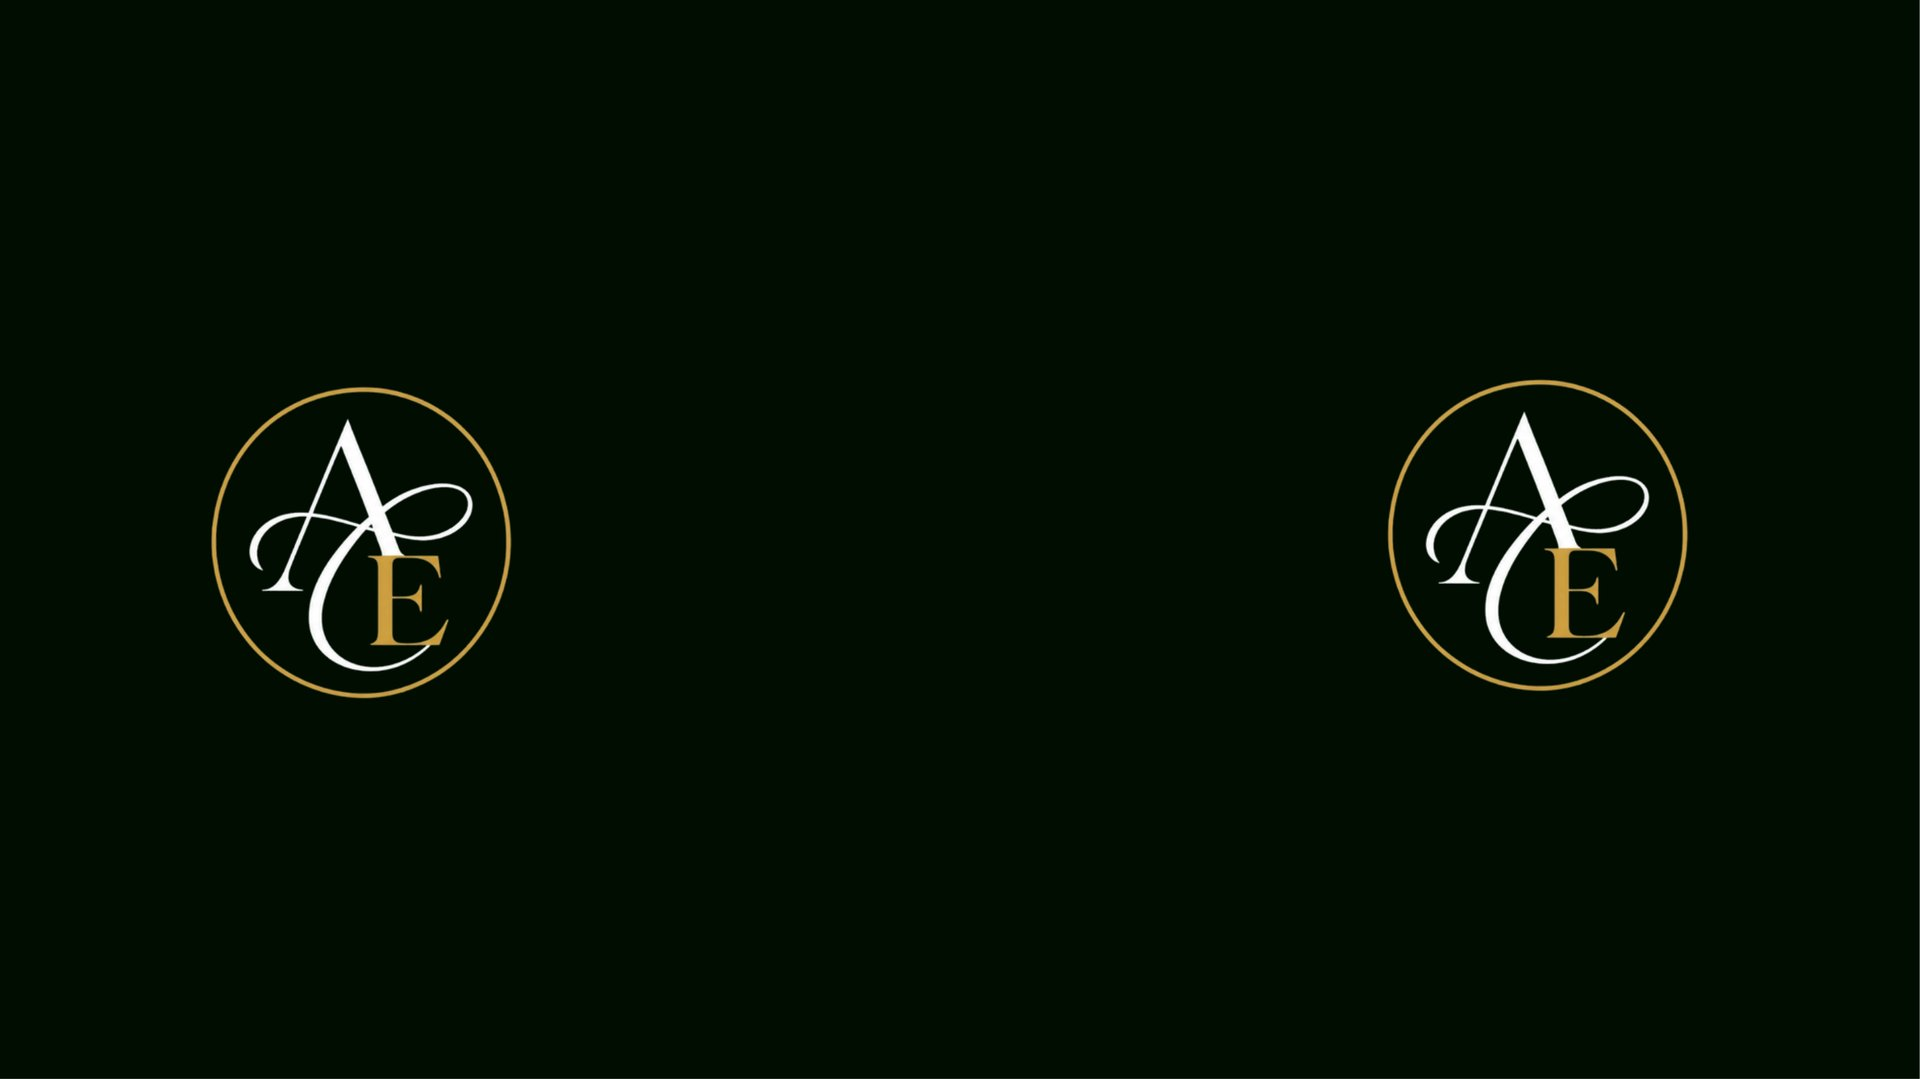
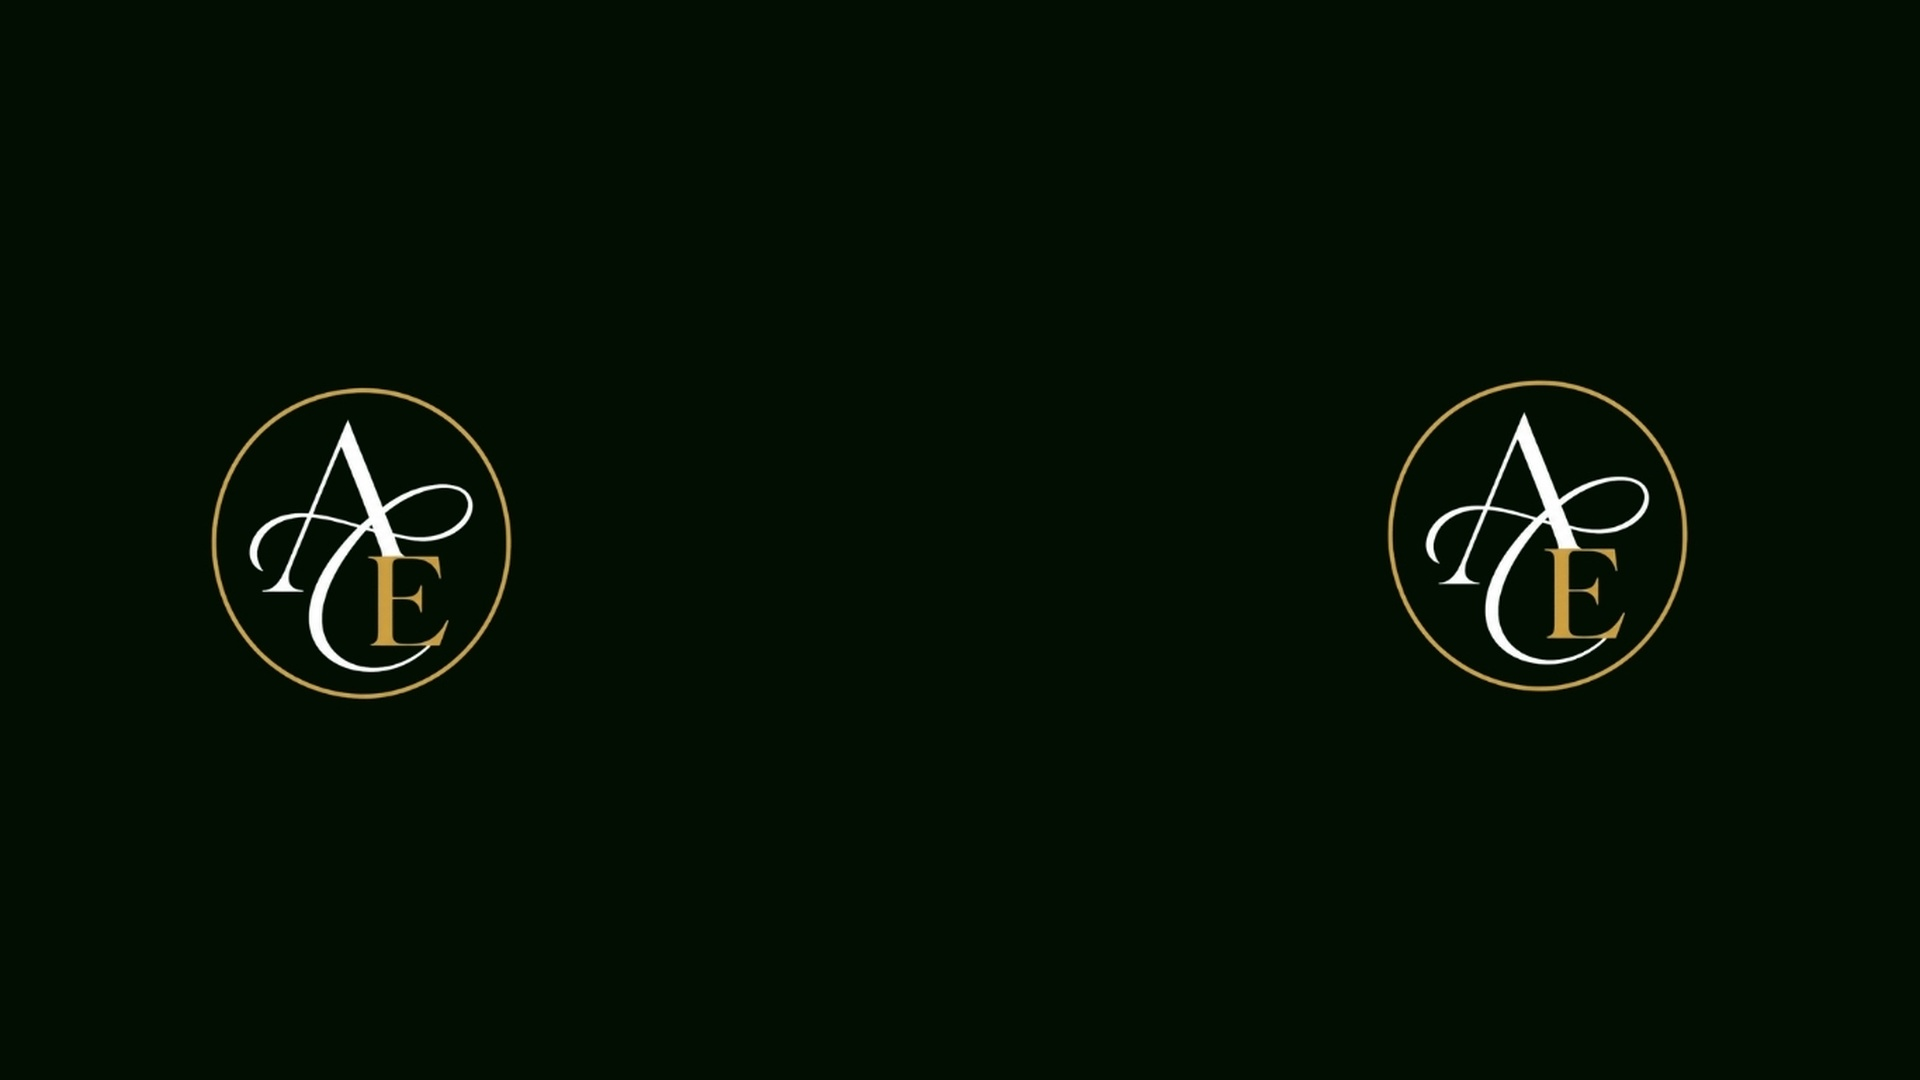
fix: trocar imagem de fundo da home e corrigir sistema de heroImageUrl
- Substitui hero-banner.jpg pela nova imagem (fundo escuro com logos dourados ACE)
- Adiciona prop imageUrl no HeroBackground para usar heroImageUrl do admin como fallback
- Corrige page.tsx e ThemedHomePage.tsx para passar heroImageUrl ao HeroBackground
- Adiciona campo de upload de imagem de fundo na aba Site & IA das configurações
- Agora a ordem de prioridade é: videoUrl (tipo=image) > heroImageUrl (admin) > hero-banner.jpg (local)
- Resolve falha onde alterações de imagem no painel admin não eram aplicadas na home

Changed region(s): [[0.7812, 0.6117, 0.8438, 0.6423], [0.1875, 0.4893, 0.2188, 0.5199], [0.125, 0.367, 0.1562, 0.3976]]

diff --git a/apps/web/src/app/(dashboard)/dashboard/settings/page.tsx b/apps/web/src/app/(dashboard)/dashboard/settings/page.tsx
@@ -288,6 +288,7 @@ export default function SettingsPage() {
   // ── Site Settings ──────────────────────────────────────────────────────────
   const [videoType, setVideoType] = useState<'youtube' | 'upload'>('youtube')
   const [videoUrl, setVideoUrl] = useState('')
+  const [heroImageUrl, setHeroImageUrl] = useState('')
   const [siteSaved, setSiteSaved] = useState(false)
   const [siteSettings, setSiteSettings] = useState({
     whatsapp: '',
@@ -319,6 +320,7 @@ export default function SettingsPage() {
     if (savedSiteSettings) {
       if (savedSiteSettings.heroVideoUrl) setVideoUrl(savedSiteSettings.heroVideoUrl)
       if (savedSiteSettings.heroVideoType) setVideoType(savedSiteSettings.heroVideoType)
+      if (savedSiteSettings.heroImageUrl) setHeroImageUrl(savedSiteSettings.heroImageUrl)
       setSiteSettings(prev => ({ ...prev, ...savedSiteSettings }))
       setIntegrations(prev => ({
         ...prev,
@@ -338,7 +340,7 @@ export default function SettingsPage() {
       const res = await fetch(`${API_URL}/api/v1/users/site-settings`, {
         method: 'PATCH',
         headers: { 'Content-Type': 'application/json', Authorization: `Bearer ${token}` },
-        body: JSON.stringify({ heroVideoUrl: videoUrl, heroVideoType: videoType, ...siteSettings }),
+        body: JSON.stringify({ heroVideoUrl: videoUrl, heroVideoType: videoType, heroImageUrl, ...siteSettings }),
       })
       if (!res.ok) { const e = await res.json().catch(() => ({})); throw new Error(e.message ?? 'Erro ao salvar configurações do site') }
       return res.json()
@@ -1292,6 +1294,60 @@ export default function SettingsPage() {
                   <p className="text-xs text-emerald-400 mt-1 flex items-center gap-1">
                     <CheckCircle2 className="w-3.5 h-3.5" /> Vídeo configurado
                   </p>
+                )}
+              </div>
+            </Section>
+
+            <Section title="Imagem de Fundo — Página Inicial">
+              <p className="text-xs text-white/50 mb-3">Imagem exibida quando não há vídeo configurado. Cole a URL ou envie um arquivo de imagem.</p>
+              <DarkInput
+                label="URL da imagem de fundo"
+                value={heroImageUrl}
+                onChange={e => setHeroImageUrl(e.target.value)}
+                placeholder="https://cdn.../imagem-fundo.jpg"
+              />
+              <div className="mt-2">
+                <label className="text-xs font-semibold text-white/70 mb-1.5 block">Ou envie a imagem diretamente</label>
+                <label
+                  htmlFor="hero-image-upload"
+                  className="flex items-center gap-2 px-4 py-2.5 rounded-xl border border-white/20 text-sm text-white/70 hover:text-white hover:border-white/40 cursor-pointer transition-colors w-fit"
+                >
+                  <Upload className="w-4 h-4" />
+                  Selecionar imagem de fundo
+                </label>
+                <input
+                  id="hero-image-upload"
+                  type="file"
+                  accept="image/*"
+                  className="hidden"
+                  onChange={async (e) => {
+                    const file = e.target.files?.[0]
+                    if (!file) return
+                    try {
+                      const token = await getValidToken()
+                      const fd = new FormData()
+                      fd.append('file', file)
+                      fd.append('folder', 'banners')
+                      const res = await fetch(`${API_URL}/api/v1/upload`, {
+                        method: 'POST',
+                        headers: { Authorization: `Bearer ${token}` },
+                        body: fd,
+                      })
+                      if (res.ok) {
+                        const data = await res.json()
+                        setHeroImageUrl(data.url)
+                      }
+                    } catch {}
+                  }}
+                />
+                {heroImageUrl && (
+                  <div className="mt-2">
+                    <p className="text-xs text-emerald-400 flex items-center gap-1 mb-2">
+                      <CheckCircle2 className="w-3.5 h-3.5" /> Imagem configurada
+                    </p>
+                    {/* eslint-disable-next-line @next/next/no-img-element */}
+                    <img src={heroImageUrl} alt="Preview" className="w-full max-w-xs h-24 object-cover rounded-xl border border-white/10" />
+                  </div>
                 )}
               </div>
             </Section>

diff --git a/apps/web/src/app/(public)/HeroBackground.tsx b/apps/web/src/app/(public)/HeroBackground.tsx
@@ -13,9 +13,10 @@ function extractYouTubeId(url: string): string {
 interface Props {
   videoUrl?: string | null
   videoType?: string | null
+  imageUrl?: string | null
 }
 
-export function HeroBackground({ videoUrl, videoType }: Props) {
+export function HeroBackground({ videoUrl, videoType, imageUrl }: Props) {
   const isUpload = videoType === 'upload'
   const isImage = videoType === 'image'
   const [isMobile, setIsMobile] = useState(false)
@@ -43,7 +44,8 @@ export function HeroBackground({ videoUrl, videoType }: Props) {
   }, [])
 
   // ── Modo imagem (padrão quando não há vídeo configurado) ──────────────────
-  const heroBannerSrc = (isImage && videoUrl) ? videoUrl : '/hero-banner.jpg'
+  // Prioridade: videoUrl (quando tipo=image) > imageUrl (fallback do admin) > hero-banner.jpg (local)
+  const heroBannerSrc = (isImage && videoUrl) ? videoUrl : (imageUrl || '/hero-banner.jpg')
   const useImageBg = isImage || (!videoUrl && !isUpload)
 
   if (useImageBg) {

diff --git a/apps/web/src/app/(public)/page.tsx b/apps/web/src/app/(public)/page.tsx
@@ -371,7 +371,7 @@ export default async function HomePage() {
         className="relative flex items-center justify-center overflow-hidden"
         style={{ background: theme.colors.primary, minHeight: 'max(85vh, 600px)' }}
       >
-        <HeroBackground videoUrl={siteSettings.heroVideoUrl} videoType={siteSettings.heroVideoType} />
+        <HeroBackground videoUrl={siteSettings.heroVideoUrl} videoType={siteSettings.heroVideoType} imageUrl={siteSettings.heroImageUrl} />
 
         <div className="relative z-10 w-full max-w-4xl mx-auto px-4 sm:px-6 text-center pt-8 pb-24 sm:pt-10 sm:pb-16">
           {/* Badge */}

diff --git a/apps/web/src/app/(public)/themes/ThemedHomePage.tsx b/apps/web/src/app/(public)/themes/ThemedHomePage.tsx
@@ -63,7 +63,7 @@ export function ThemedHomePage({ theme, siteSettings, featured, stats, config }:
         className={`relative ${l.heroMinHeight} flex items-center justify-center overflow-hidden`}
         style={{ background: c.primary }}
       >
-        <HeroBackground videoUrl={siteSettings?.heroVideoUrl} videoType={siteSettings?.heroVideoType} />
+        <HeroBackground videoUrl={siteSettings?.heroVideoUrl} videoType={siteSettings?.heroVideoType} imageUrl={siteSettings?.heroImageUrl} />
 
         {/* Overlay */}
         <div className="absolute inset-0 z-[1]" style={{ background: l.heroOverlay }} />
